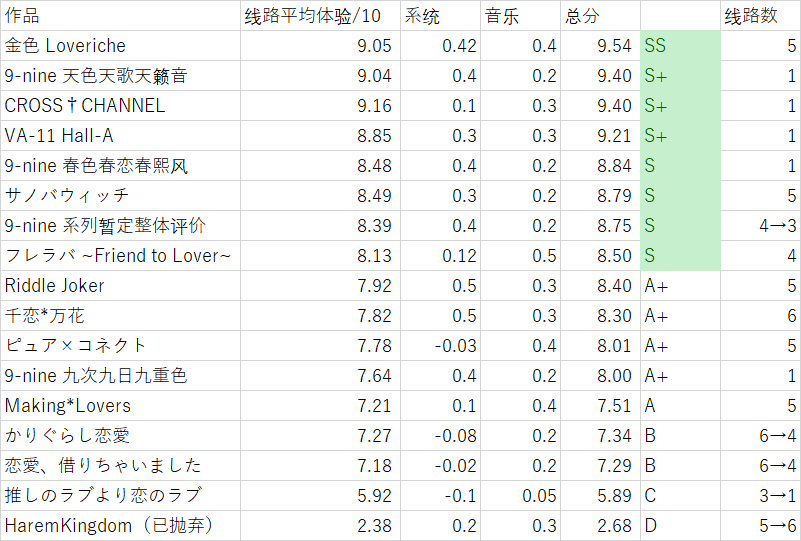
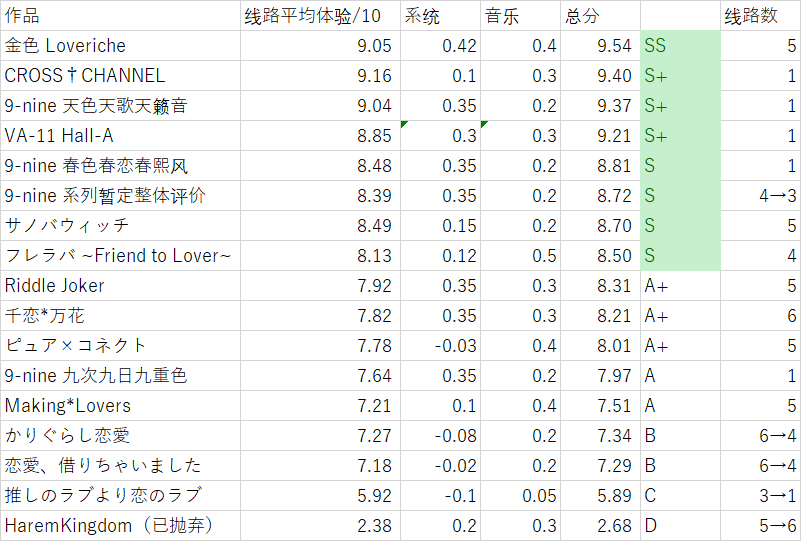
MoeImp edit

diff --git a/impression/9nine.md b/impression/9nine.md
@@ -21,11 +21,11 @@ Palette 「9-nine」（2017-2020）
 
 | 概览             | 线路分  |   作品分 | Rank |
 | :--------------- | ---: | ---------: | :--: |
-| 九次九日九重色 | 9.55 | 10.15/N8.00 |  A+  |
-| 天色天歌天籁音 | 11.30 | 11.90/N9.40 |  S+  |
-| 春色春恋春熙风 | 10.60 | 11.20/N8.84 |  S  |
+| 九次九日九重色 | 9.55 | 10.10/N7.97 |  A  |
+| 天色天歌天籁音 | 11.30 | 11.85/N9.37 |  S+  |
+| 春色春恋春熙风 | 10.60 | 11.15/N8.81 |  S  |
 | 雪色雪花雪之痕 | - | - |  -   |
-| 整体评分（暂定） | - | 11.08/N8.75 |  S  |
+| 整体评分（暂定） | - | 11.03/N8.72 |  S  |
 
 #### 九次九日九重色（九條都）
 
@@ -33,13 +33,13 @@ Palette 「9-nine」（2017-2020）
 人物刻画 0.3/0.5 剧情表现 0.1/0.5<br />
 人物（声音 + 作画）(0.3+0.4)/(0.3+0.4)<br />
 结尾埋了一个雷 -0.05<br />
-线路总计 10.45/12.5 （9.55）
+线路总计 9.55/12.5
 
-系统 存档方便 +0.05 场景动态 +0.15 <br />
+系统 存档方便 +0.05 场景动态 +0.1 <br />
 人物表情动态 +0.05 漫画场景 +0.05<br />
 整体「精致感」+0.1<br />
 音乐 +0.2<br />
-作品总计 10.15/N8.00 A+
+作品总计 10.10/N7.97 A
 
 系统方面，这可能是我用过的最好用的系统了，存档界面就在手边，基本功能也没有缺失，人物和场景甚至有些动态，比如一些表情的「冒汗」「kira」这样的效果。这个动态 CG 过于强大甚至使得我跳 hs 有了一种暴殄天物的罪恶感。
 
@@ -56,9 +56,9 @@ Palette 「9-nine」（2017-2020）
 人物（声音 + 作画）(0.4+0.4)/(0.3+0.4)<br />
 线路总计 11.3/12.5
 
-系统 +0.4（同上）<br />
+系统 +0.35（同上）<br />
 音乐 +0.2<br />
-作品总计 11.90/N9.40 S+
+作品总计 11.85/N9.37 S+
 
 单线作品就有这样的特点，线路好的话分数可以很高，因为没有其他线路拖后腿；线路烂的话分数可以很低，因为没有其他线路补救。<br />
 放心，9-nine 系列最后还是要看一个总评分的。
@@ -84,9 +84,9 @@ Palette 「9-nine」（2017-2020）
 结尾的 meta 处理提升期待值 +0.05<br />
 线路总计 10.6/12.5
 
-系统 +0.4（同上）<br />
+系统 +0.35（同上）<br />
 音乐 +0.2<br />
-作品总计 11.20/N8.84 S
+作品总计 11.15/N8.81 S
 
 自爆系学姐すき。
 
@@ -115,9 +115,9 @@ Palette 「9-nine」（2017-2020）
 由于第四作尚未发售，本评分为前三作（前三条线）综合评分，之后会根据第四作进行修改。
 
 各线路加权总分 10.48<br />
-系统 +0.4（同上）<br />
+系统 +0.35（同上）<br />
 音乐 +0.2<br />
-作品总计 11.08/N8.75 S
+作品总计 11.03/N8.72 S
 
 实际上我们都能看得出来，9-nine 系列的各个作品与其说是独立作，不如说是一作的不同分支线路。分割商法带来的一个缺点是作品发售时间越靠后剧情越深入并且剧情描绘越能用上力，这实际上发售早的线路十分吃亏，综上所述这句话我说过无数次了但是还要再说一次：
 
